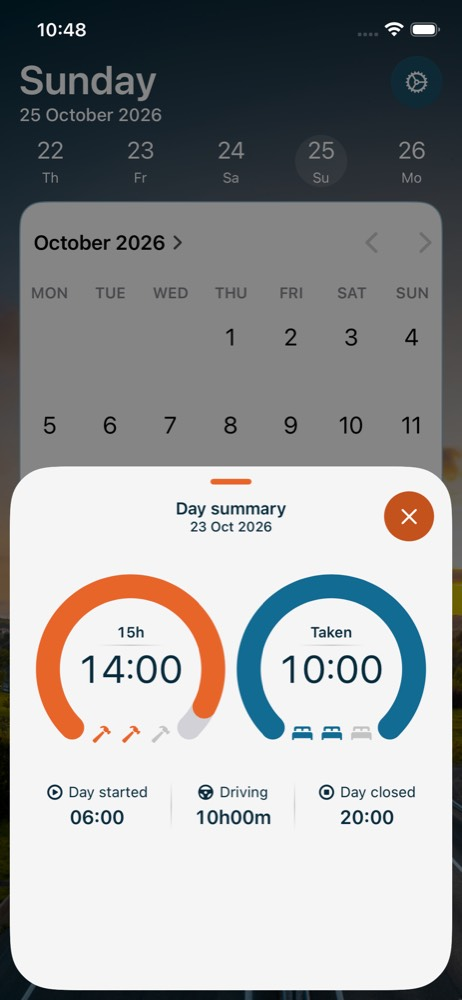
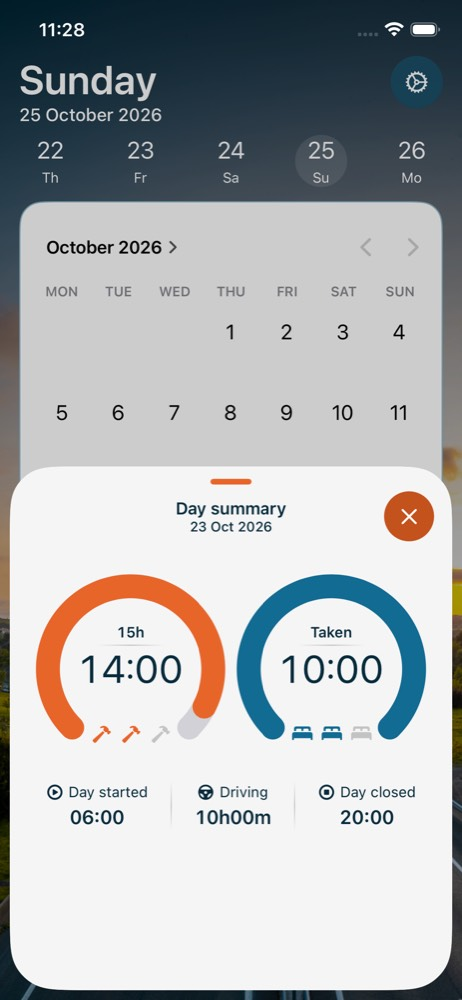
style: smaller calendar dates with more room at the card edges
The calendar is laid out wider and drawn at 88 % (ScaledToWidth +
scaleEffect), inside a 12 pt side inset. Dynamic Type, taps and VoiceOver
keep working; screenshots and README refreshed.

diff --git a/TachoBook/HistoryView.swift b/TachoBook/HistoryView.swift
@@ -41,10 +41,16 @@ struct HistoryView: View {
 
     private func calendarCard(now: Date) -> some View {
         VStack(alignment: .leading, spacing: 10) {
-            HistoryCalendar(markers: model.historyMarkers(now: now), today: now) { date in
-                summaryDay = SummaryDay(date: date)
+            ScaledToWidth(scale: HistoryCalendar.scale) {
+                HistoryCalendar(markers: model.historyMarkers(now: now), today: now) { date in
+                    summaryDay = SummaryDay(date: date)
+                }
+                .scaleEffect(HistoryCalendar.scale)
             }
             .accessibilityIdentifier("historyCalendar")
+            // Room at the card edges so the grid does not run up against the border (Serhii, 25.10.2026).
+            .padding(.horizontal, HistoryCalendar.inset)
+            .padding(.top, 8)
             FadedRule().frame(height: 1).padding(.horizontal, 16)
             HistoryLegend()
                 .padding(.horizontal, 16)
@@ -127,7 +133,15 @@ struct HistoryCalendar: UIViewRepresentable {
     var today: Date
     var onSelect: (Date) -> Void
 
+    /// Space between the card border and the calendar grid.
+    static let inset: CGFloat = 12
+
     func makeCoordinator() -> Coordinator { Coordinator(self) }
+
+    /// Smaller day numbers than the system default (Serhii, 25.10.2026). The calendar is laid out wider and drawn
+    /// at this scale (`ScaledToWidth`), so it still follows Dynamic Type; a content-size trait override confused
+    /// the accessibility audit.
+    static let scale: CGFloat = 0.88
 
     func makeUIView(context: Context) -> UICalendarView {
         let view = UICalendarView()
@@ -207,6 +221,24 @@ struct HistoryCalendar: UIViewRepresentable {
             guard let dateComponents, let date = calendarView?.calendar.date(from: dateComponents) else { return false }
             return date <= parent.today
         }
+    }
+}
+
+/// Lays out its one child `1 / scale` times wider than offered and reports the child's size times `scale`;
+/// the child applies `scaleEffect(scale)`, so it is drawn exactly in the offered width.
+struct ScaledToWidth: Layout {
+    var scale: CGFloat
+
+    func sizeThatFits(proposal: ProposedViewSize, subviews: Subviews, cache: inout ()) -> CGSize {
+        guard let child = subviews.first else { return .zero }
+        let width = proposal.width ?? 370
+        let size = child.sizeThatFits(ProposedViewSize(width: width / scale, height: nil))
+        return CGSize(width: width, height: size.height * scale)
+    }
+
+    func placeSubviews(in bounds: CGRect, proposal: ProposedViewSize, subviews: Subviews, cache: inout ()) {
+        subviews.first?.place(at: CGPoint(x: bounds.midX, y: bounds.midY), anchor: .center,
+                              proposal: ProposedViewSize(width: bounds.width / scale, height: bounds.height / scale))
     }
 }
 

diff --git a/docs/history-calendar/README.md b/docs/history-calendar/README.md
@@ -8,8 +8,10 @@ Frame 03 `708:31874` (violations) is out of scope.
 
 - History tab is active (Violations and Restrictions stay inert). Home and History share one `DayLogModel`.
 - Native `UICalendarView` (`HistoryCalendar`, `UIViewRepresentable`): current month, month arrows, future dates
-  outside `availableDateRange` (dimmed, not selectable). A tap opens the sheet; the selection is cleared at once,
-  so the same date can be tapped again.
+  outside `availableDateRange` (dimmed, not selectable). Per Serhii (25.10.2026) the grid is drawn smaller and with
+  more room at the card edges: `ScaledToWidth` lays the calendar out 1/0.88 wider and `scaleEffect(0.88)` draws it
+  in the card width (12 pt side inset), so Dynamic Type, taps and VoiceOver frames keep working.
+  A tap opens the sheet; the selection is cleared at once, so the same date can be tapped again.
 - Markers (`HistoryMarkers.swift`), derived from stored records on every read:
   - **Bed** (`bed.double.fill`): the day the Home row of PR #13 gains a reduction — `reductionIDs(endOf:)` of
     the day contains a reduction that the previous day's set does not. That is the day the reduced rest ended,
@@ -35,6 +37,7 @@ Frame 03 `708:31874` (violations) is out of scope.
 
 ## Known gaps against Figma
 
+- Day numbers are drawn at 88 % of the system size (about 18 pt instead of Figma's 20 pt), at Serhii's request.
 - Native calendar look: rows are taller (UIKit reserves space for decorations), weekday headers are system
   gray, day numbers are system black, and the week starts on the device's first weekday.
 - Today is navy (tint), not orange: F9 allows only navy text on light surfaces.
